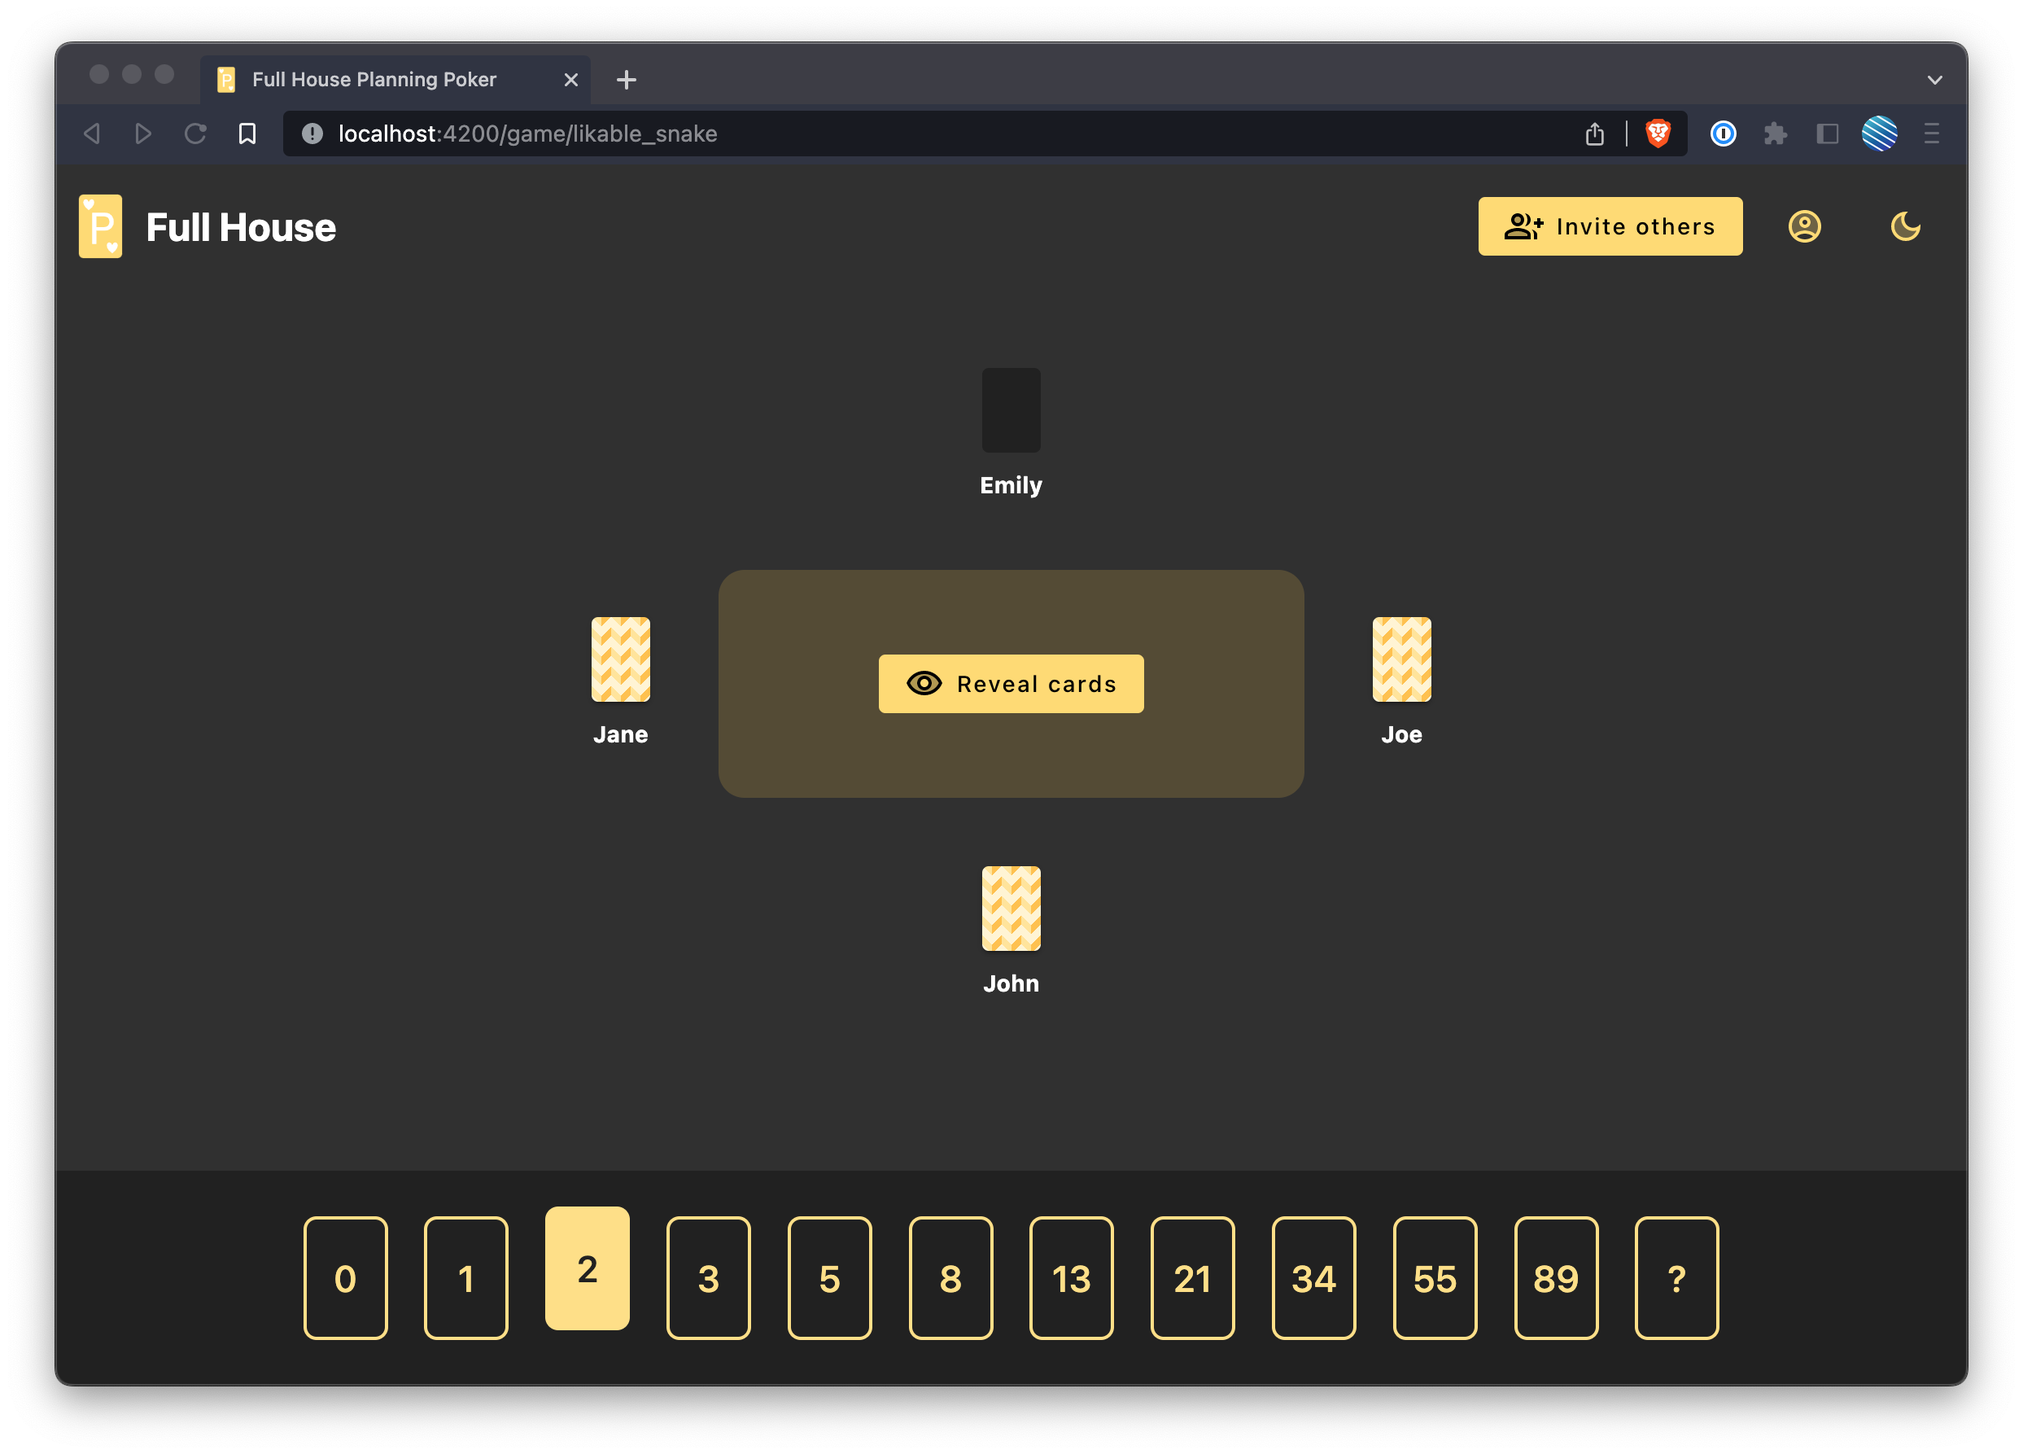
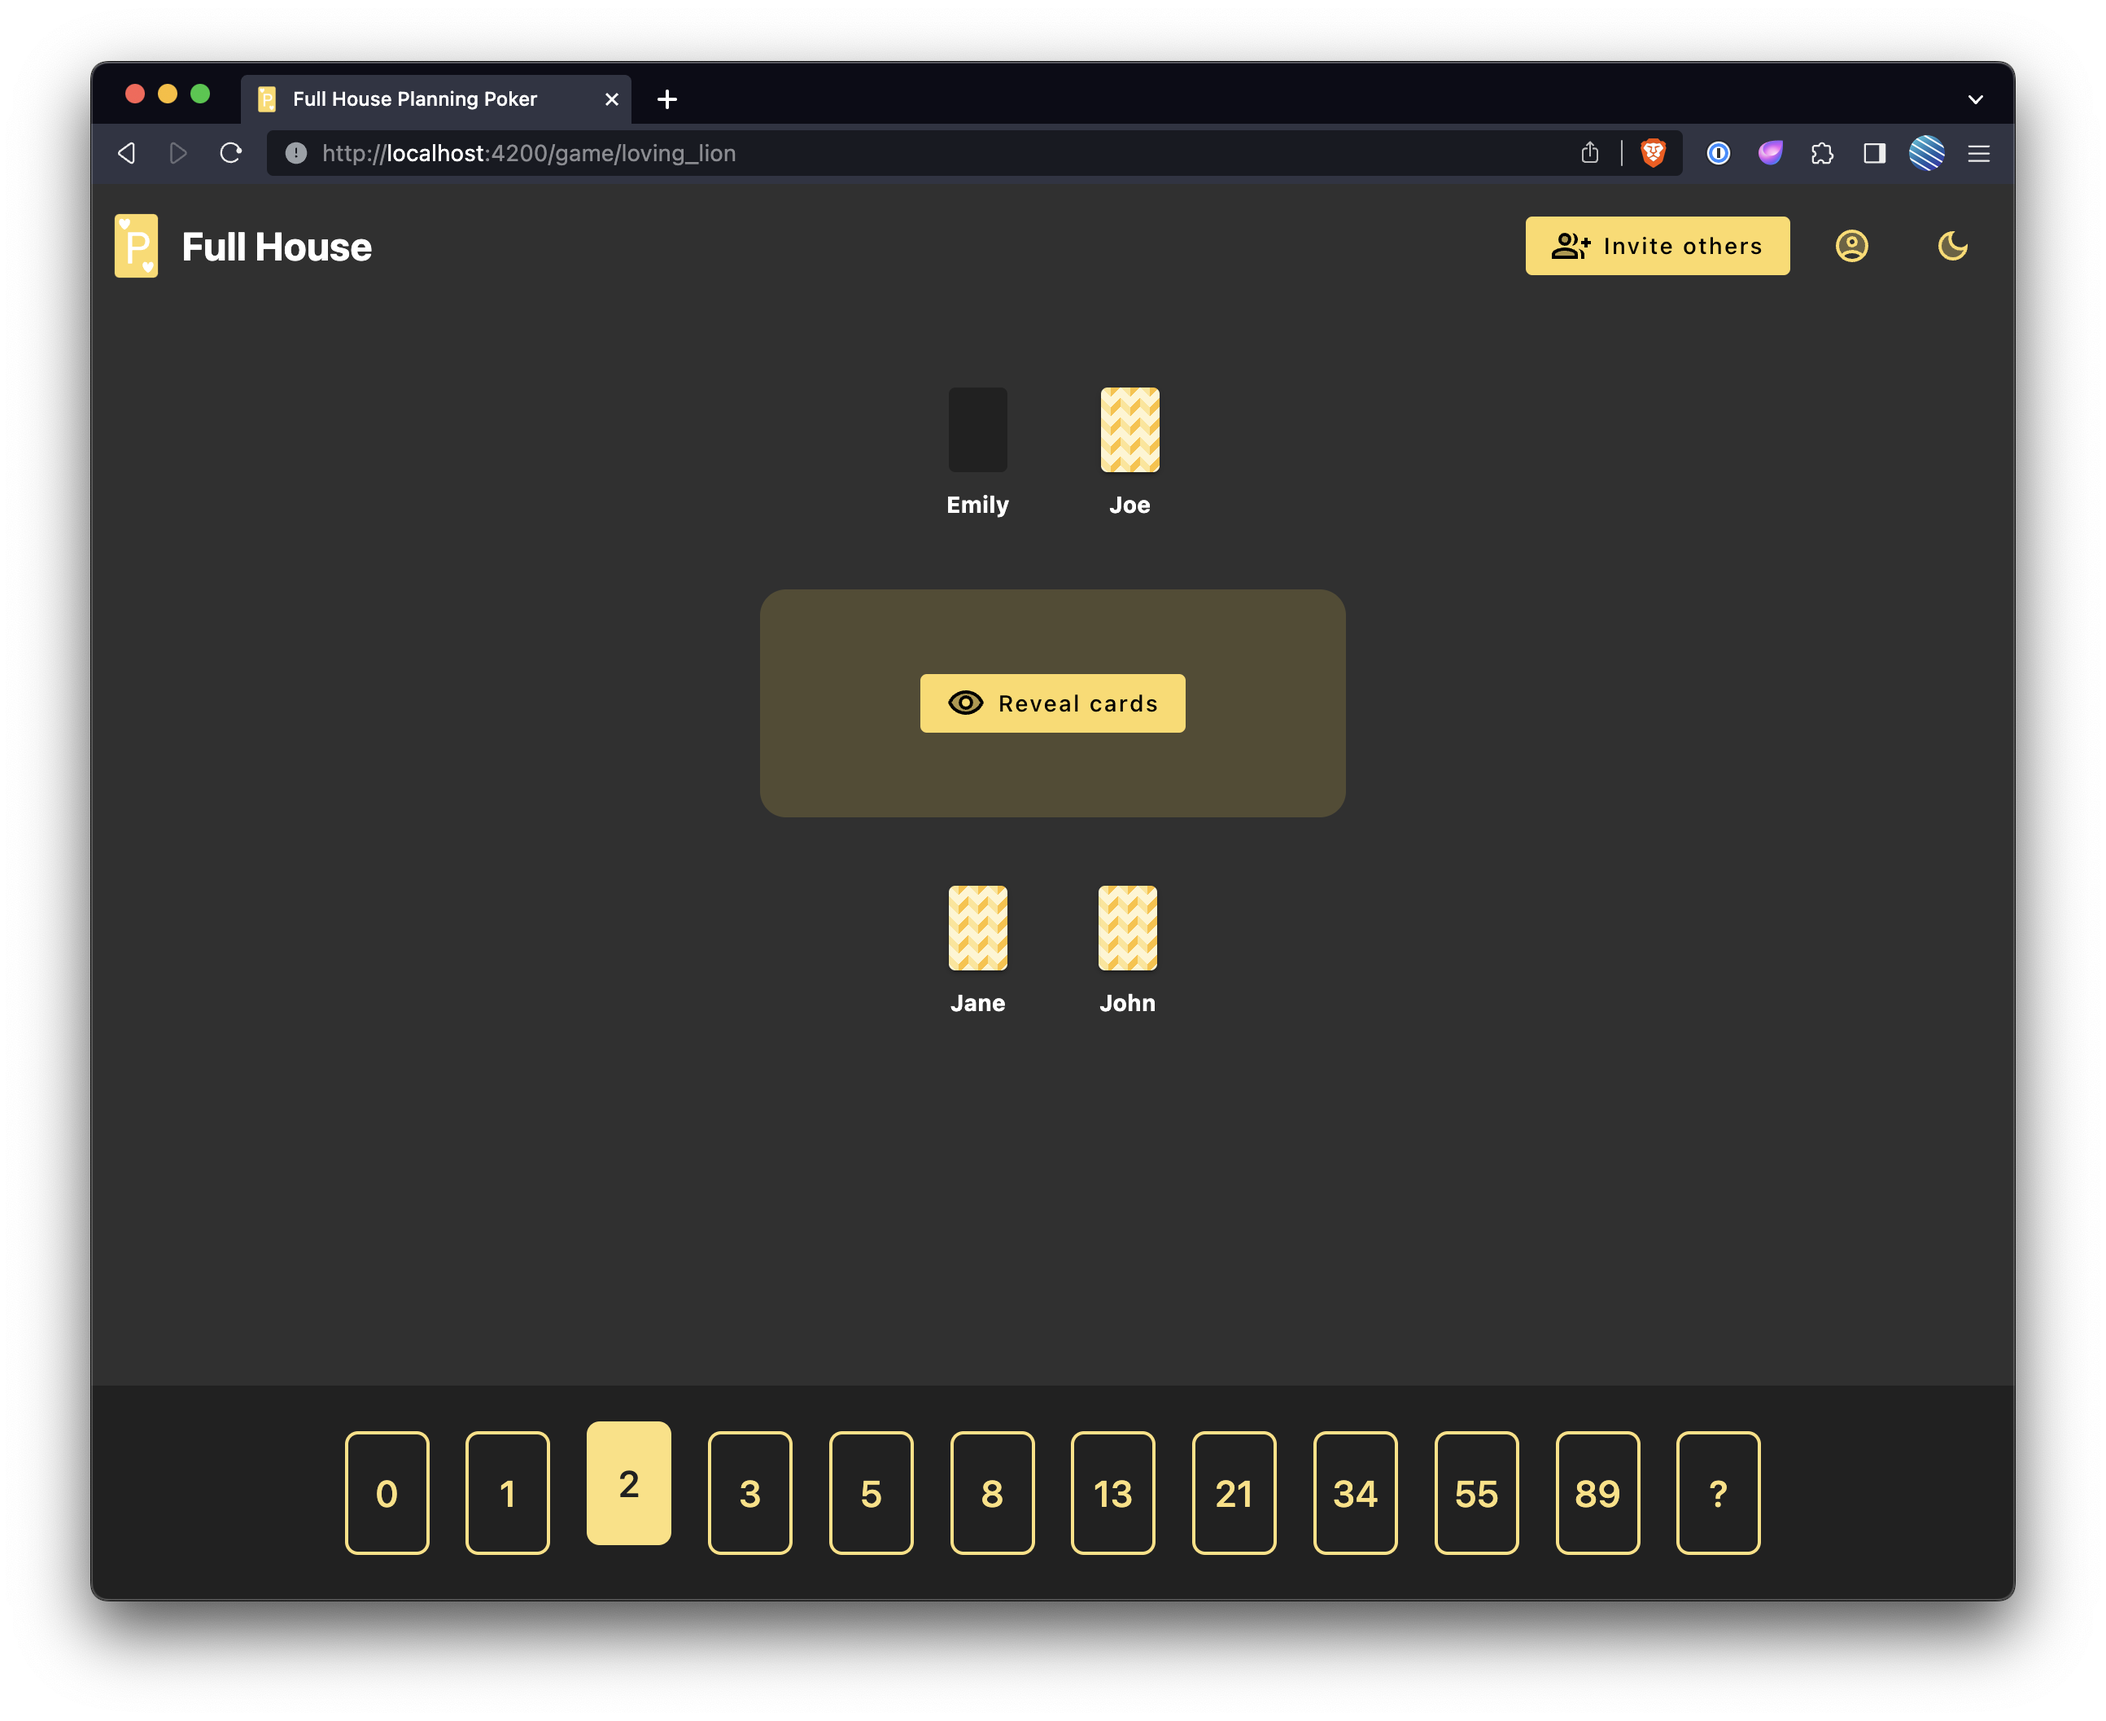
improve agreement and add agreement circle to UI (#188)
* improve agreement calculation and add agreement circle indicator to ui

* update node

* change participant filter pipe to layout players differently

* update images in readme

* update images in readme

diff --git a/frontend/src/app/app.module.ts b/frontend/src/app/app.module.ts
@@ -42,6 +42,7 @@ import {TranslateHttpLoader} from "@ngx-translate/http-loader";
 import {TranslateMessageFormatCompiler} from "ngx-translate-messageformat-compiler";
 import {QRCodeModule} from "angularx-qrcode";
 import {SettingsState} from "./store/settings/settings.state";
+import {MatProgressSpinnerModule} from "@angular/material/progress-spinner";
 
 export function HttpLoaderFactory(http: HttpClient) {
   return new TranslateHttpLoader(http, '/assets/i18n/', '.json');
@@ -60,37 +61,38 @@ export function HttpLoaderFactory(http: HttpClient) {
     ThemeSwitcherComponent,
     FractionFilterPipe
   ],
-  imports: [
-    BrowserModule,
-    AppRoutingModule,
-    BrowserAnimationsModule,
-    MatDialogModule,
-    MatInputModule,
-    MatSelectModule,
-    MatOptionModule,
-    MatButtonModule,
-    FormsModule,
-    HttpClientModule,
-    NgxsModule.forRoot(appStates, {developmentMode: !environment.production}),
-    NgxsStoragePluginModule.forRoot({key: [UserState, ThemingState, SettingsState]}),
-    NgxsReduxDevtoolsPluginModule.forRoot(),
-    NgxsLoggerPluginModule.forRoot(),
-    MatIconModule,
-    MatMenuModule,
-    MatTooltipModule,
-    QRCodeModule,
-    TranslateModule.forRoot({
-      loader: {
-        provide: TranslateLoader,
-        useFactory: HttpLoaderFactory,
-        deps: [HttpClient]
-      },
-      compiler: {
-        provide: TranslateCompiler,
-        useClass: TranslateMessageFormatCompiler
-      }
-    })
-  ],
+    imports: [
+        BrowserModule,
+        AppRoutingModule,
+        BrowserAnimationsModule,
+        MatDialogModule,
+        MatInputModule,
+        MatSelectModule,
+        MatOptionModule,
+        MatButtonModule,
+        FormsModule,
+        HttpClientModule,
+        NgxsModule.forRoot(appStates, {developmentMode: !environment.production}),
+        NgxsStoragePluginModule.forRoot({key: [UserState, ThemingState, SettingsState]}),
+        NgxsReduxDevtoolsPluginModule.forRoot(),
+        NgxsLoggerPluginModule.forRoot(),
+        MatIconModule,
+        MatMenuModule,
+        MatTooltipModule,
+        QRCodeModule,
+        TranslateModule.forRoot({
+            loader: {
+                provide: TranslateLoader,
+                useFactory: HttpLoaderFactory,
+                deps: [HttpClient]
+            },
+            compiler: {
+                provide: TranslateCompiler,
+                useClass: TranslateMessageFormatCompiler
+            }
+        }),
+        MatProgressSpinnerModule
+    ],
   providers: [
     {provide: MAT_FORM_FIELD_DEFAULT_OPTIONS, useValue: {appearance: 'outline'}},
     {

diff --git a/frontend/src/app/game/game/participant-filter.pipe.ts b/frontend/src/app/game/game/participant-filter.pipe.ts
@@ -8,26 +8,27 @@ type PARTICIPANT_ROW = 'top' | 'left' | 'bottom_left' | 'bottom_right' | 'right'
 })
 export class ParticipantFilterPipe implements PipeTransform {
 
-  // top: 0, 3, 5, 7, 9
-  // left: 1
-  // right: 2
-  // bottom_left: 4, 8
-  // bottom_right: 6, 10
+  // top: 0, 1, 3, 7, 9, 11, 13, ...
+  // left: 5
+  // right: 6
+  // bottom_left: 2, 8, 12, ...
+  // "bottom_middle": self
+  // bottom_right: 4, 10, 14, ...
   transform(value: Array<ParticipantModel>, row?: PARTICIPANT_ROW): Array<ParticipantModel> {
     if (!row || !value) {
       return value;
     }
 
     if (row == "top") {
-      return value.filter((p, idx) => idx == 0 || (idx >= 3 && (idx - 3) % 2 == 0));
+      return value.filter((p, idx) => idx == 0 || idx == 1 || idx == 3 || (idx >= 7 && (idx - 7) % 2 == 0));
     } else if (row == "left") {
-      return value.filter((p, idx) => idx == 1);
+      return value.filter((p, idx) => idx == 5);
     } else if (row == "bottom_left") {
-      return value.filter((p, idx) => idx >= 4 && (idx - 4) % 4 == 0);
+      return value.filter((p, idx) => idx == 2 || idx >= 8 && (idx - 4) % 4 == 0);
     } else if (row == "bottom_right") {
-      return value.filter((p, idx) => idx >= 6 && (idx - 6) % 4 == 0);
+      return value.filter((p, idx) => idx == 4 || idx >= 10 && (idx - 6) % 4 == 0);
     } else if (row == "right") {
-      return value.filter((p, idx) => idx == 2);
+      return value.filter((p, idx) => idx == 6);
     }
 
     return value;

diff --git a/frontend/src/app/game/game/fraction-filter.pipe.ts b/frontend/src/app/game/game/fraction-filter.pipe.ts
@@ -9,13 +9,17 @@ export function transformToFraction(v: number | undefined): string | undefined {
     return '⅛';
   } else if (v == 0.25) {
     return '¼';
+  } else if (v.toFixed(2) === '0.33') {
+    return '⅓';
   } else if (v == 0.5) {
     return '½';
+  } else if (v.toFixed(2) === '0.66') {
+    return '⅔';
   } else if (v == 0.75) {
     return '¾';
   } else if (v > 1 && v%1 > 0) {
     let fraction = transformToFraction(v%1) || ''
-    let utf8Fractions = ['⅛', '¼', '½', '¾']
+    let utf8Fractions = ['⅛', '¼', '⅓', '½', '⅔', '¾']
     let isUtf8Fraction = utf8Fractions.includes(fraction)
     return `${Math.trunc(v)}${isUtf8Fraction ? '' : '.'}${isUtf8Fraction ? fraction : Math.trunc(v%1*10)}`
   } else {

diff --git a/frontend/src/app/game/game/agreement.ts b/frontend/src/app/game/game/agreement.ts
@@ -15,7 +15,7 @@ function calculateAgreementInternal(numbers: number[]): number | null {
   const votedValueRange: number = Math.max(...numbers) - Math.min(...numbers);
   const minMaxDeviationPercentage: number = 10;
   const maxDeviationScalingFactor: number = 5;
-  const maxDeviationPercentage: number = Math.max(minMaxDeviationPercentage, 70 - (votedValueRange / maxDeviationScalingFactor));
+  const maxDeviationPercentage: number = Math.max(minMaxDeviationPercentage, 70 - (votedValueRange * maxDeviationScalingFactor));
   const maxDeviation: number = (maxDeviationPercentage / 100) * consensus;
   return Math.max(0, (1 - averageDeviation / maxDeviation) * 100);
 }

diff --git a/frontend/src/app/game/game/game.component.html b/frontend/src/app/game/game/game.component.html
@@ -82,6 +82,8 @@
       <strong class="large">{{ game.voteCount }}</strong>
     </div>
     <div class="agreement fx-layout-column fx-align--center-x fx-align--x-center fx-gap--1em" *ngIf="game.agreement != null">
+      <mat-spinner mode="determinate" [value]="100-game.agreement"></mat-spinner>
+      <mat-spinner mode="determinate" [value]="game.agreement"></mat-spinner>
       <span class="gray">{{ 'game.agreement' | translate }}</span>
       <strong class="large">{{ game.agreementEmoji }}</strong>
     </div>

diff --git a/frontend/src/app/game/game/game.component.scss b/frontend/src/app/game/game/game.component.scss
@@ -59,18 +59,11 @@
     font-size: 2em;
   }
   .agreement {
-    .agreement-circle {
-      height: 96px;
-      width: 96px;
-      position: relative;
-      span {
-        display: block;
-        font-size: 48px;
-        margin: 0;
-        position: absolute;
-        top: calc(50% - 12px);
-        left: calc(50% - 24px);
-      }
+    mat-spinner {
+      position: absolute;
+      height: 3rem !important;
+      width: 3rem !important;
+      top: 3rem;
     }
   }
 }

diff --git a/frontend/src/app/game/game/game.component.theme.scss b/frontend/src/app/game/game/game.component.theme.scss
@@ -44,4 +44,18 @@
     }
   }
 
+  .agreement {
+    mat-spinner {
+      &:first-of-type {
+        transform: scaleX(-1);
+        circle {
+          @if($isDark) {
+            stroke: desaturate(darken(mat.get-color-from-palette($primary, 50), 70%), 75%);
+          } @else {
+            stroke: mat.get-color-from-palette($primary, 50);
+          }
+        }
+      }
+    }
+  }
 }

diff --git a/frontend/src/app/game/game/game.component.ts b/frontend/src/app/game/game/game.component.ts
@@ -155,7 +155,9 @@ export class GameComponent {
       return '🤩'
     } else if (agreement >= 50) {
       return '🙂'
-    } else if (agreement >= 25) {
+    } else if (agreement >= 30) {
+      return '😐'
+    } else if (agreement >= 15) {
       return '😕'
     } else {
       return '😡'
